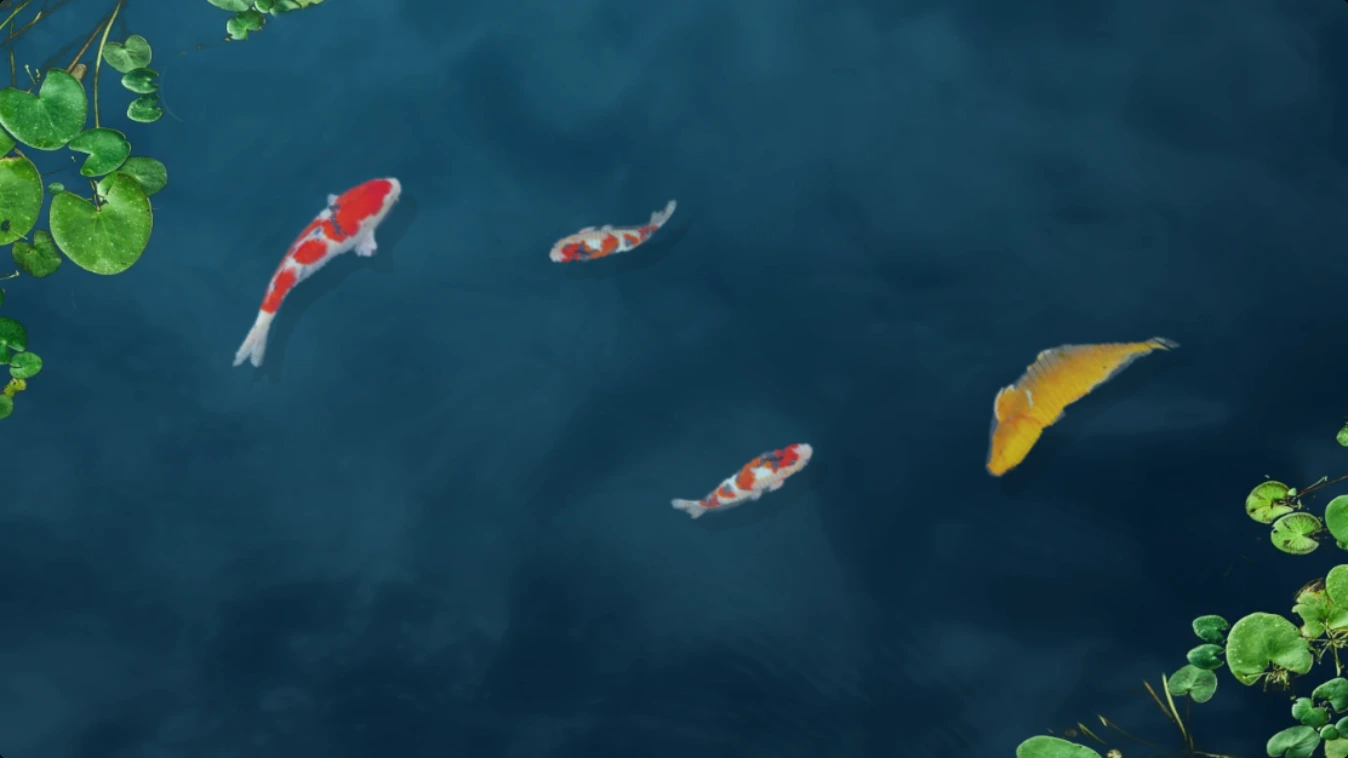
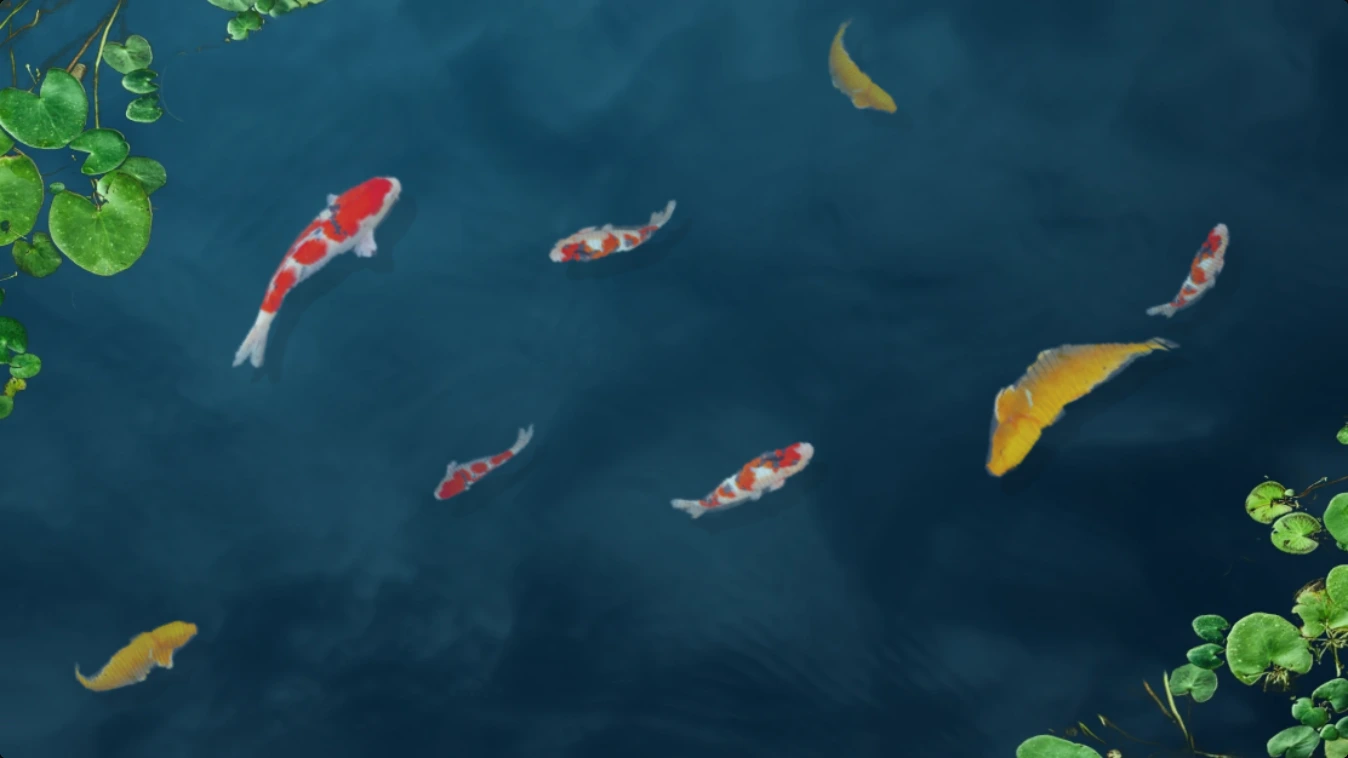
Spread koi swimming and wakes across the pond

diff --git a/src/components/professional/artwork-pond.ts b/src/components/professional/artwork-pond.ts
@@ -8,6 +8,10 @@ const shoulder = 9;
 
 // Positions are at the shoulder; dorsal photographs run from tail to nose.
 const koi = [
+  { asset: 2, x: 645, y: 70, heading: .82, size: 83, frequency: 1.24, seed: .83, opacity: .55 },
+  { asset: 0, x: 342, y: 352, heading: 2.48, size: 91, frequency: 1.36, seed: .56, opacity: .60 },
+  { asset: 1, x: 898, y: 192, heading: -.95, size: 97, frequency: 1.18, seed: .96, opacity: .67 },
+  { asset: 2, x: 120, y: 478, heading: -.25, size: 104, frequency: 1.09, seed: .19, opacity: .72 },
   { asset: 1, x: 435, y: 180, heading: 2.85, size: 105, frequency: 1.15, seed: .44, opacity: .78 },
   { asset: 1, x: 573, y: 349, heading: -.32, size: 120, frequency: 1.02, seed: .09, opacity: .84 },
   { asset: 2, x: 756, y: 312, heading: 2.3, size: 165, frequency: .93, seed: .71, opacity: .91 },
@@ -46,20 +50,23 @@ export function createPondSwim() {
       const forwardX = Math.cos(heading), forwardY = Math.sin(heading);
       const lookX = fish.x + forwardX * fish.size * .88;
       const lookY = fish.y + forwardY * fish.size * .88;
-      let steerX = Math.max(0, (238 - lookX) / 68) - Math.max(0, (lookX - 762) / 68);
-      let steerY = Math.max(0, (177 - lookY) / 52) - Math.max(0, (lookY - 385) / 52);
+      const margin = fish.size * .72 + 12;
+      let steerX = (Math.max(0, margin - lookX) - Math.max(0, lookX - (1000 - margin))) / 38;
+      let steerY = (Math.max(0, margin - lookY) - Math.max(0, lookY - (562.5 - margin))) / 38;
       for (const [j, [x, y]] of positions.entries()) {
         if (j === i) continue;
         const dx = lookX - x, dy = lookY - y;
         const range = Math.max(1, Math.hypot(dx, dy));
-        const avoid = Math.max(0, 1 - range / (fish.size * .83));
+        const proximity = Math.max(0, 1 - range / (fish.size * .83));
+        const sameDepth = Math.exp(-8 * Math.abs(fish.opacity - swimmers[j].opacity));
+        const avoid = proximity * sameDepth;
         steerX += avoid * dx / range;
         steerY += avoid * dy / range;
       }
       // Near a bank, keep steering toward open water until the shoulder clears
       // the margin. Looking ahead alone can release a turn too early.
-      steerX += (Math.max(0, 210 - fish.x) - Math.max(0, fish.x - 790)) / 40;
-      steerY += (Math.max(0, 145 - fish.y) - Math.max(0, fish.y - 417)) / 32;
+      steerX += (Math.max(0, margin - fish.x) - Math.max(0, fish.x - (1000 - margin))) / 40;
+      steerY += (Math.max(0, margin - fish.y) - Math.max(0, fish.y - (562.5 - margin))) / 32;
       const wander = Math.sin(.39 * time + fish.seed * 15) * .22
         + Math.sin(.14 * time + fish.seed * 29) * .19;
       const side = forwardX * steerY - forwardY * steerX;
@@ -69,7 +76,7 @@ export function createPondSwim() {
       const bearing = Math.atan2(side + .04 * Math.sin(fish.seed * 15), .58 + ahead);
       const desiredTurn = wander + (ahead < -.68 && Math.abs(side) < .35 && Math.abs(fish.turn) > .09
         ? Math.sign(fish.turn) * Math.abs(bearing) : bearing);
-      const turnLimit = .28 + 1.75 * fish.speed / fish.size;
+      const turnLimit = .46 + 1.45 * fish.speed / fish.size;
       fish.turn += (Math.max(-turnLimit, Math.min(turnLimit, desiredTurn)) - fish.turn) * dt * 2.2;
 
       const burst = Math.sin(time * (1.24 + fish.seed * .24) + fish.seed * 14)
@@ -78,7 +85,7 @@ export function createPondSwim() {
       fish.effort += (effort - fish.effort) * dt * 3.6;
       fish.phase += tau * fish.frequency * (.69 + .46 * fish.effort) * dt;
       fish.heading += fish.turn * dt;
-      const bend = Math.tanh(fish.turn * 2.2) * 1.17;
+      const bend = Math.tanh(fish.turn / (.23 + fish.speed / fish.size)) * 1.35;
       const joints = bodyAt(fish, fish.x, fish.y, fish.heading, bend, fish.phase, fish.effort);
 
       // Tail velocity relative to the shoulder supplies thrust. During recovery
@@ -94,13 +101,20 @@ export function createPondSwim() {
       fish.x += dx;
       fish.y += dy;
       fish.joints = joints.map(([x, y]): Point => [x + dx, y + dy]);
-      // The shoulder parts water, the flank carries it, and the narrow tail
-      // sweeps it sideways. Use actual joint velocities, including in turns.
-      for (const [joint, radius] of [[4, .080], [15, .068], [27, .047], [32, .033]]) {
-        const [x, y] = fish.joints[joint];
-        const [px, py] = previous[joint];
-        ripples.push(x, y, (x - px) / dt, (y - py) / dt, fish.size * radius);
+      // Forward travel displaces water outward on either side of the head.
+      // The tail sheds a reversing lateral pulse as it flexes across the spine.
+      const wake = fish.opacity ** 4;
+      const normalX = -Math.sin(fish.heading), normalY = Math.cos(fish.heading);
+      const [bowX, bowY] = fish.joints[5];
+      for (const side of [-1, 1]) {
+        const offset = side * fish.size * .065;
+        ripples.push(bowX + normalX * offset, bowY + normalY * offset,
+          wake * fish.speed * (.35 * forwardX + side * normalX),
+          wake * fish.speed * (.35 * forwardY + side * normalY), fish.size * .092);
       }
+      const [tailX, tailY] = fish.joints[links];
+      ripples.push(tailX, tailY, wake * lateral * normalX, wake * lateral * normalY,
+        Math.max(6, fish.size * .058));
     }
   }
 

diff --git a/src/components/professional/artwork-water.ts b/src/components/professional/artwork-water.ts
@@ -21,13 +21,22 @@ uniform sampler2D floorPhoto;
 uniform sampler2D koiLayer;
 uniform sampler2D surfacePhoto;
 uniform sampler2D normals;
+uniform float time;
 
 void main() {
   vec2 slope = (texture2D(normals, uv).rg * 255. - 128.) / 128.;
+  // Slowly advect the photographed surface relief. Its uneven gradients keep
+  // sheltered patches quiet while the local wake travels past them.
+  vec2 drift = vec2(sin(time * .19 + uv.y * 4.), cos(time * .14 + uv.x * 3.));
+  vec2 surfaceUV = uv + .016 * drift;
+  float reliefHere = texture2D(surfacePhoto, surfaceUV).r;
+  vec2 reliefSlope = vec2(texture2D(surfacePhoto, surfaceUV + vec2(.008, 0.)).r,
+                         texture2D(surfacePhoto, surfaceUV + vec2(0., .014)).r) - reliefHere;
+  slope += reliefSlope * .34;
   vec2 bend = slope * vec2(.019, .034);
   vec3 bed = texture2D(floorPhoto, uv + bend * 1.45).rgb;
   // Low-frequency surface relief also refracts a fish as it crosses still water.
-  float relief = texture2D(surfacePhoto, uv).r - .5;
+  float relief = reliefHere - .5;
   vec2 throughWater = uv + bend + relief * vec2(.0022, -.0034);
   vec2 blur = vec2(.00085, .0015);
   vec4 fish = .52 * texture2D(koiLayer, throughWater)
@@ -41,7 +50,7 @@ void main() {
   // reflections cross the markings, with highlights tilted by the local wake.
   vec3 submerged = fish.rgb * vec3(.82, .88, .88) + vec3(.021, .067, .088) * fish.a;
   vec3 color = bed * (1. - fish.a) + submerged;
-  float sky = texture2D(surfacePhoto, uv + bend * 3.8).r;
+  float sky = texture2D(surfacePhoto, surfaceUV + bend * 2.1).r;
   float facing = dot(slope, vec2(-.54, -.84));
   float reflection = clamp(.024 + .115 * sky + facing * .20, .008, .29);
   color *= 1. + .13 * facing + (sky - .5) * .055;
@@ -124,10 +133,12 @@ export function createArtworkSurface(
   gl.uniform1i(gl.getUniformLocation(program, "floorPhoto"), 1);
   gl.uniform1i(gl.getUniformLocation(program, "surfacePhoto"), 2);
   gl.uniform1i(gl.getUniformLocation(program, "normals"), 3);
+  const clock = gl.getUniformLocation(program, "time");
   let allocated = false;
 
   return {
-    draw(flow: ReturnType<typeof createPondSwim>) {
+    draw(flow: ReturnType<typeof createPondSwim>, time: number) {
+      gl.uniform1f(clock, time);
       gl.viewport(0, 0, canvas.width, canvas.height);
       gl.texSubImage2D(gl.TEXTURE_2D, 0, 0, 0, gl.RGBA, gl.UNSIGNED_BYTE, fish);
       gl.activeTexture(gl.TEXTURE3);

diff --git a/src/components/professional/artwork-ripples.ts b/src/components/professional/artwork-ripples.ts
@@ -29,7 +29,7 @@ export function createPondRipples() {
         const end = (j + 1) * width - 1;
         for (let i = j * width + 1; i < end; i++) {
           const curvature = level[i-1] + level[i+1] + level[i-width] + level[i+width] - 4 * level[i];
-          velocity[i] = .926 * velocity[i] + .105 * curvature - .0024 * level[i];
+          velocity[i] = .965 * velocity[i] + .065 * curvature - .0007 * level[i];
         }
       }
       for (let i = 0; i < level.length; i++) level[i] += velocity[i];
